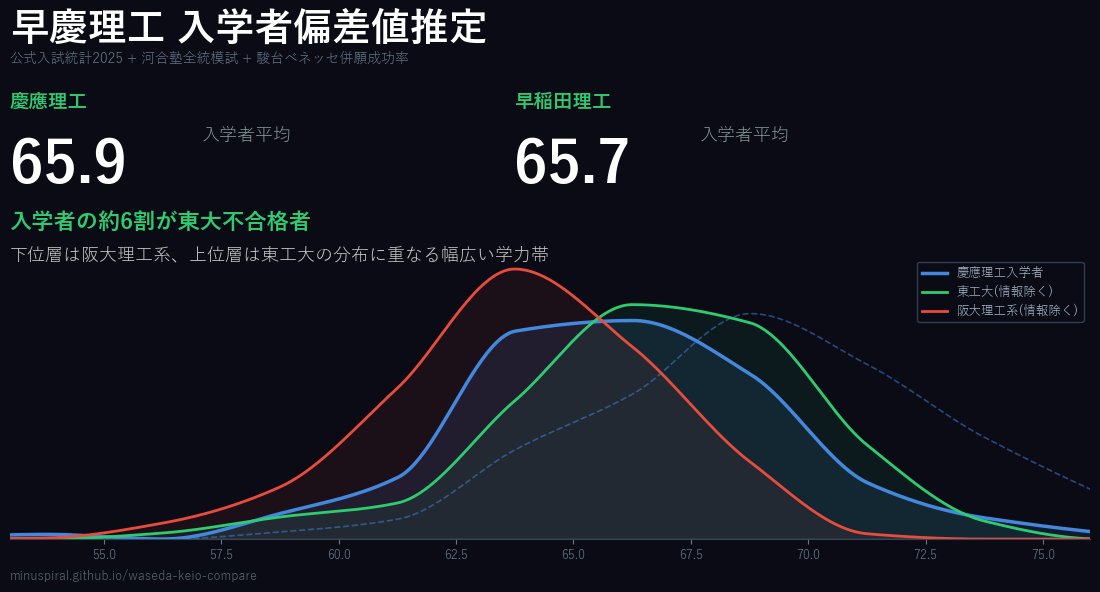
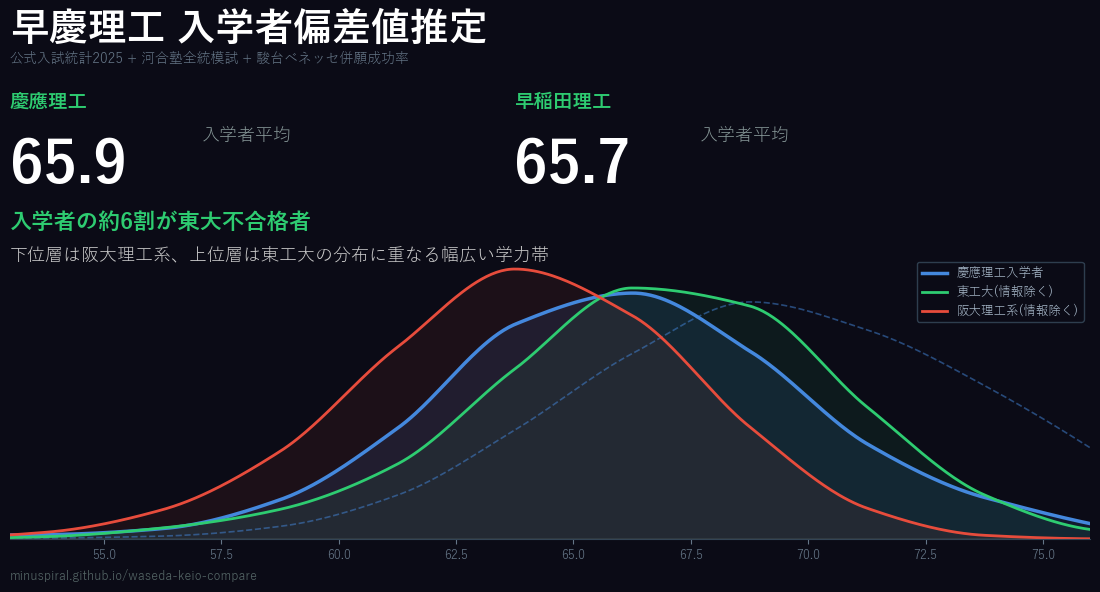
OGP: ガウシアン平滑化+PCHIP補間で滑らかな曲線に改善

Changed region(s): [[0.0, 0.4561, 1.0, 0.9122], [0.2473, 0.7297, 0.2782, 0.7601]]

diff --git a/gen_ogp.py b/gen_ogp.py
@@ -3,6 +3,7 @@ import numpy as np
 import matplotlib.pyplot as plt
 import matplotlib
 from scipy.interpolate import PchipInterpolator
+from scipy.ndimage import gaussian_filter1d
 import os
 
 # --- Japanese font setup ---
@@ -61,13 +62,15 @@ kEnr = np.maximum(np.round(kAll * (1 - kTd) * KSC), 0)
 titec = np.array([0,0,3,11,18,69,117,108,47,9,0])
 osaka = np.array([0,1,15,49,142,254,181,73,5,0,0])  # 阪大理工系
 
-# --- PCHIP interpolation (preserves shape & skewness) ---
-def make_curve(data, mids):
+# --- Smoothed PCHIP interpolation ---
+def make_curve(data, mids, sigma=0.8):
     density = data / (np.sum(data) * 2.5)  # normalize to density
+    # Gaussian pre-smoothing to remove noise/gaps before interpolation
+    smooth = gaussian_filter1d(density, sigma=sigma)
     # Add zero-padding at edges for smooth taper
     pad = 5.0
     xp = np.concatenate([[mids[0] - pad], mids, [mids[-1] + pad]])
-    yp = np.concatenate([[0], density, [0]])
+    yp = np.concatenate([[0], smooth, [0]])
     pchip = PchipInterpolator(xp, yp)
     x = np.linspace(52, 78, 500)
     y = np.maximum(pchip(x), 0)
